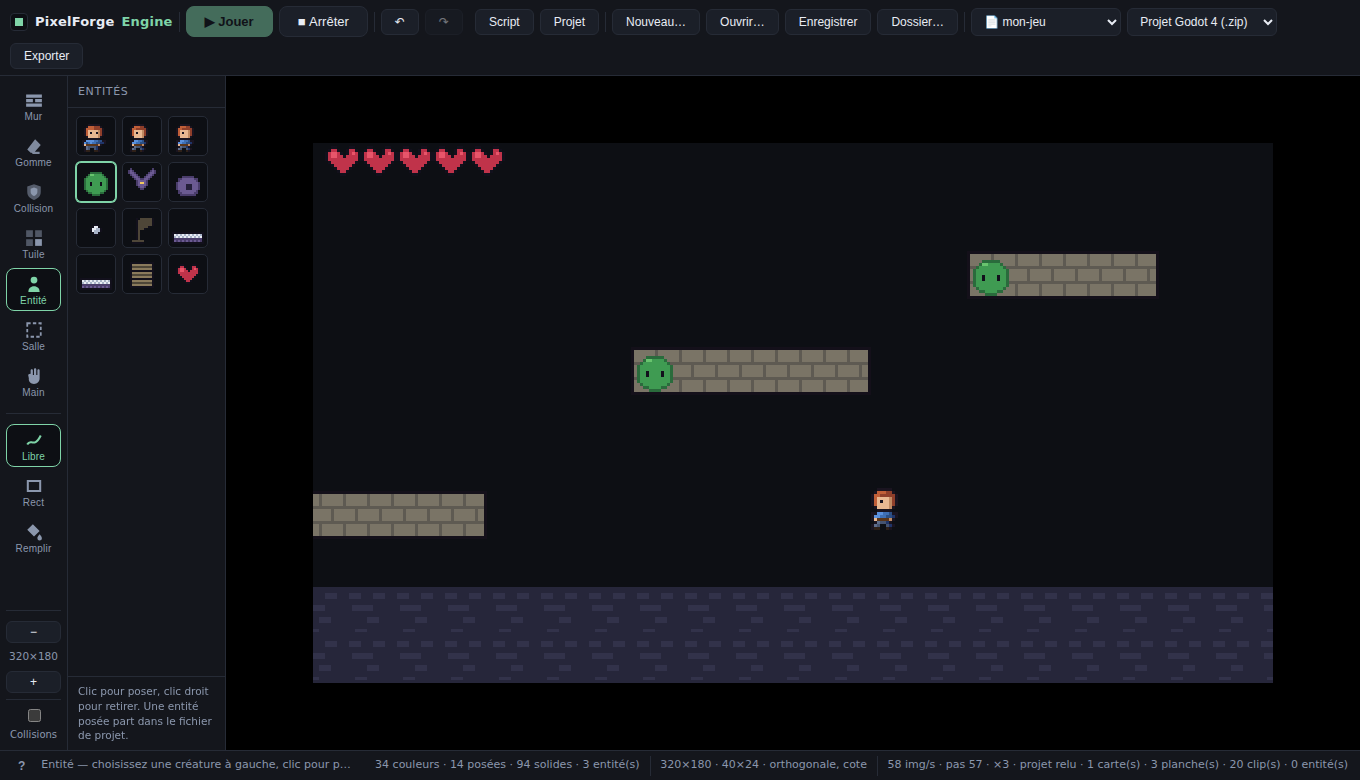
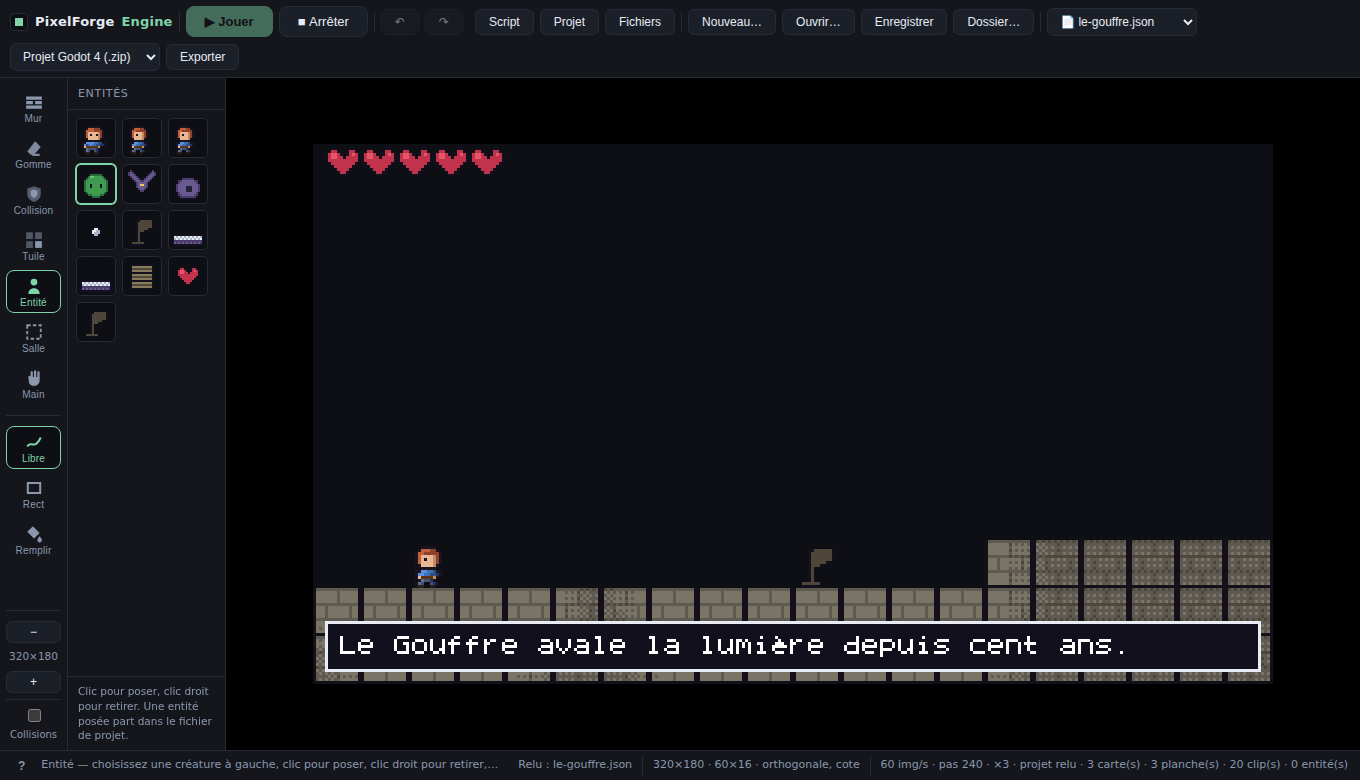
Les captures du README montrent l'éditeur d'aujourd'hui
L'accueil, l'éditeur sur le Gouffre, la palette d'entités, le
panneau Projet et le jeu en cours sont recapturés — ils dataient
d'avant le panneau Fichiers, l'onglet Scène et la feuille blanche,
et un README qui montre une interface disparue vaut moins que pas
d'image. Trois captures neuves entrent : le panneau Fichiers avec
son inventaire, l'arbre de scène sur le Gouffre, et la feuille
blanche.

Claude-Session: https://claude.ai/code/session_01VmVMdfrWJCxEWeszTz99Ch

diff --git a/README.md b/README.md
@@ -414,6 +414,8 @@ la version 16 garde l'épée et les cœurs : les défauts sont ceux d'avant.
 
 ### La feuille blanche
 
+![La feuille blanche : tuiles neutres, héros neutre, rien de la démo](docs/feuille-blanche.png)
+
 Le départ **vierge** ne transporte *aucun* asset de démonstration : des tuiles
 neutres générées depuis les masques de l'autotiling (un aplat, un liseré
 d'encre du seul côté sans voisin), un héros en deux couleurs qu'on redessine
@@ -429,6 +431,8 @@ case vide à dessiner sur place. Ces boutons manquaient, et leur absence
 fermait des portes que rien ne signalait.
 
 ## Les fichiers, comme dans un moteur
+
+![Le panneau Fichiers : le dossier de travail, et l'inventaire du projet](docs/fichiers.png)
 
 Le retour : *« comparé à Godot, il me manque tout le système de fichiers,
 l'importation des assets »*. Et c'était vrai — non parce que ça manquait,
@@ -491,6 +495,8 @@ s'affiche au lieu de laisser croire qu'on a tout compris. L'export vers
 Tiled et LDtk existait déjà : l'aller-retour est complet.
 
 ## L'arbre de scène
+
+![L'onglet Scène : l'arbre du Gouffre, nœud par nœud](docs/scene.png)
 
 L'outil Entité pose et déplace ; il ne répond pas à « qu'y a-t-il dans cette
 scène ? ». Dès qu'un niveau dépasse dix entités, on en perd une derrière un
